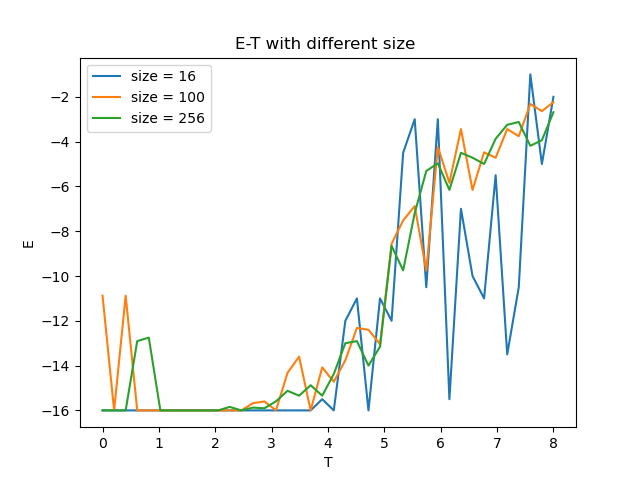
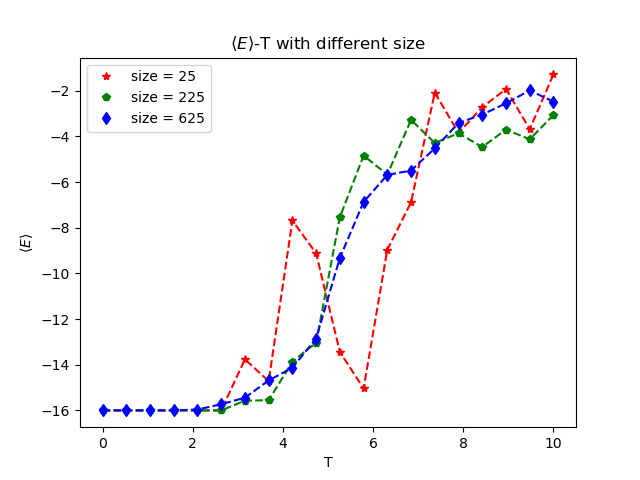
add mean energy, capacity, and magnetic moment versus temperature

diff --git a/without_transverse_field/2D_simple_ising_model.py b/without_transverse_field/2D_simple_ising_model.py
@@ -8,7 +8,7 @@ class parameters(object):
     numbeers_of_x = 200
     numbeers_of_y = 200
     temerature = 2.5
-    time_steps = 100
+    time_steps = 500
     j = 2
 
 par = parameters()
@@ -34,8 +34,9 @@ def ising_step(field, beta = beta):
                 for m in range(m_offset, M, 2):
                     dE = _ising_update(field, n, m, beta)
                     total_energy_list.append(dE)
-    total_energy = np.mean(total_energy_list)
-    return field, total_energy
+    total_mean_energy = np.mean(total_energy_list)
+    total_squared_mean_energy = np.mean(np.array(total_energy_list)**2)
+    return field, total_mean_energy, total_squared_mean_energy
 
 def _ising_update(field, n, m, beta):
     total = 0 #初始化相鄰總能量
@@ -46,14 +47,14 @@ def _ising_update(field, n, m, beta):
                 continue
             total += field[i % N, j % M] #計算相鄰總能量狀態，循環邊界條件
     dH = - par.j * field[n, m] * total #計算 hamitonian 變化
-    if dH >= 0: #系統網能量較低處演化
+    if dH >= 0: #系統往能量較低處演化
         field[n, m] *= -1
     elif np.exp(dH * beta) > np.random.rand(): #根據 boltzmann factor 機率性反轉
         field[n, m] *= -1
     return dH
 
 base = random_spin_field(par.numbeers_of_x, par.numbeers_of_y)
-img, _ = ising_step(base)
+img, _, __ = ising_step(base)
 plt.imshow(display_spin_field(img))
 plt.show()
 
@@ -92,7 +93,7 @@ def plot_mean_energy_with_time_steps(mean_energy_list, save = True):
 images = [random_spin_field(par.numbeers_of_x, par.numbeers_of_y)]
 mean_energy_list = []
 for i in range(par.time_steps):
-    img, mean_energy = ising_step(images[-1])
+    img, mean_energy, _ = ising_step(images[-1])
     images.append(img.copy())
     mean_energy_list.append(mean_energy)
 
@@ -104,29 +105,38 @@ for i in range(par.time_steps):
 # plt.show()
 
 plot_animation(images, save=False)
-plot_mean_energy_with_time_steps(mean_energy_list, save=True)
+plot_mean_energy_with_time_steps(mean_energy_list, save=False)
 
 # find the phase transition
 mean_energy_with_diff_number = []
 mean_magnetic_moment_with_diff_number = []
+mean_capacity_with_diff_number = []
 flag = 0
-size_number_start = 4
-size_number_end = 21
-space = 6
+size_number_start = 5
+size_number_end = 26
+space = 10
+temperature_start = 0.0001
+temperature_end = 5*par.j
+temperature_spot_numbers = 20
 for number in range(size_number_start, size_number_end, space):
     globals()["mean_energy_with_number" + str(number)] = []
     globals()["mean_magnetic_moment_with_number" + str(number)] = []
+    globals()["mean_capacity_with_number" + str(number)] = []
     mean_energy_with_diff_number.append(globals()["mean_energy_with_number" + str(number)])
     mean_magnetic_moment_with_diff_number.append(globals()["mean_magnetic_moment_with_number" + str(number)])
-    for temperature in np.linspace(0.2, 4 * par.j, 4 * par.j * 5):
+    mean_capacity_with_diff_number.append(globals()["mean_capacity_with_number" + str(number)])
+    for temperature in np.linspace(temperature_start, temperature_end, temperature_spot_numbers):
         beta = 1 / temperature
         images = [random_spin_field(number, number)]
         mean_energy_list = []
+        squared_mean_energy_list = []
         for i in range(par.time_steps):
-            img, mean_energy = ising_step(images[-1], beta=beta)
+            img, mean_energy, squared_mean_energy = ising_step(images[-1], beta=beta)
             images.append(img.copy())
             mean_energy_list.append(mean_energy)
+            squared_mean_energy_list.append(squared_mean_energy)
         mean_energy_with_diff_number[flag].append(mean_energy_list[-1])
+        mean_capacity_with_diff_number[flag].append((beta**2)*(squared_mean_energy_list[-1]-mean_energy_list[-1]**2))
         w, h = images[-1].shape
         temp_magnetic_moment_list = []
         for i in range(w):
@@ -137,22 +147,43 @@ for number in range(size_number_start, size_number_end, space):
     flag += 1
 
 plot_used_list = [i for i in range(size_number_start, size_number_end, space)]
+plot_used_list_2 = ['r*', 'gp', 'bd']
+plot_used_list_3 = ['r--', 'g--', 'b--']
 for i in range(len(plot_used_list)):
-    plt.plot(np.linspace(0, 4 * par.j, 4 * par.j * 5), mean_energy_with_diff_number[i],
+    plt.plot(np.linspace(temperature_start, temperature_end, temperature_spot_numbers),
+             mean_energy_with_diff_number[i],plot_used_list_2[i],
              label="size = " + str(plot_used_list[i]**2))
-plt.title("E-T with different size ")
+    plt.plot(np.linspace(temperature_start, temperature_end, temperature_spot_numbers),
+             mean_energy_with_diff_number[i], plot_used_list_3[i])
+plt.title(r"$\langle E \rangle$-T with different size ")
 plt.xlabel("T")
-plt.ylabel("E")
+plt.ylabel(r"$\langle E \rangle$")
 plt.legend()
 plt.savefig("./mean_energy-temperature_with_diff_number.png")
 plt.show()
 
 for i in range(len(plot_used_list)):
-    plt.plot(np.linspace(0, 4 * par.j, 4 * par.j * 5), mean_magnetic_moment_with_diff_number[i],
+    plt.plot(np.linspace(temperature_start, temperature_end, temperature_spot_numbers),
+             mean_capacity_with_diff_number[i],plot_used_list_2[i],
              label="size = " + str(plot_used_list[i]**2))
-plt.title("m-T with different size ")
+    plt.plot(np.linspace(temperature_start, temperature_end, temperature_spot_numbers),
+             mean_capacity_with_diff_number[i], plot_used_list_3[i])
+plt.title(r"$\langle C \rangle$-T with different size ")
 plt.xlabel("T")
-plt.ylabel("m")
+plt.ylabel(r"$\langle C \rangle$")
+plt.legend()
+plt.savefig("./mean_capacity-temperature_with_diff_number.png")
+plt.show()
+
+for i in range(len(plot_used_list)):
+    plt.plot(np.linspace(temperature_start, temperature_end, temperature_spot_numbers),
+             mean_magnetic_moment_with_diff_number[i],plot_used_list_2[i],
+             label="size = " + str(plot_used_list[i]**2))
+    plt.plot(np.linspace(temperature_start, temperature_end, temperature_spot_numbers),
+             mean_magnetic_moment_with_diff_number[i], plot_used_list_3[i])
+plt.title(r"$\langle m \rangle$-T with different size ")
+plt.xlabel("T")
+plt.ylabel(r"$\langle m \rangle$")
 plt.legend()
 plt.savefig("./mean_magnetic_moment-temperature_with_diff_number.png")
 plt.show()
